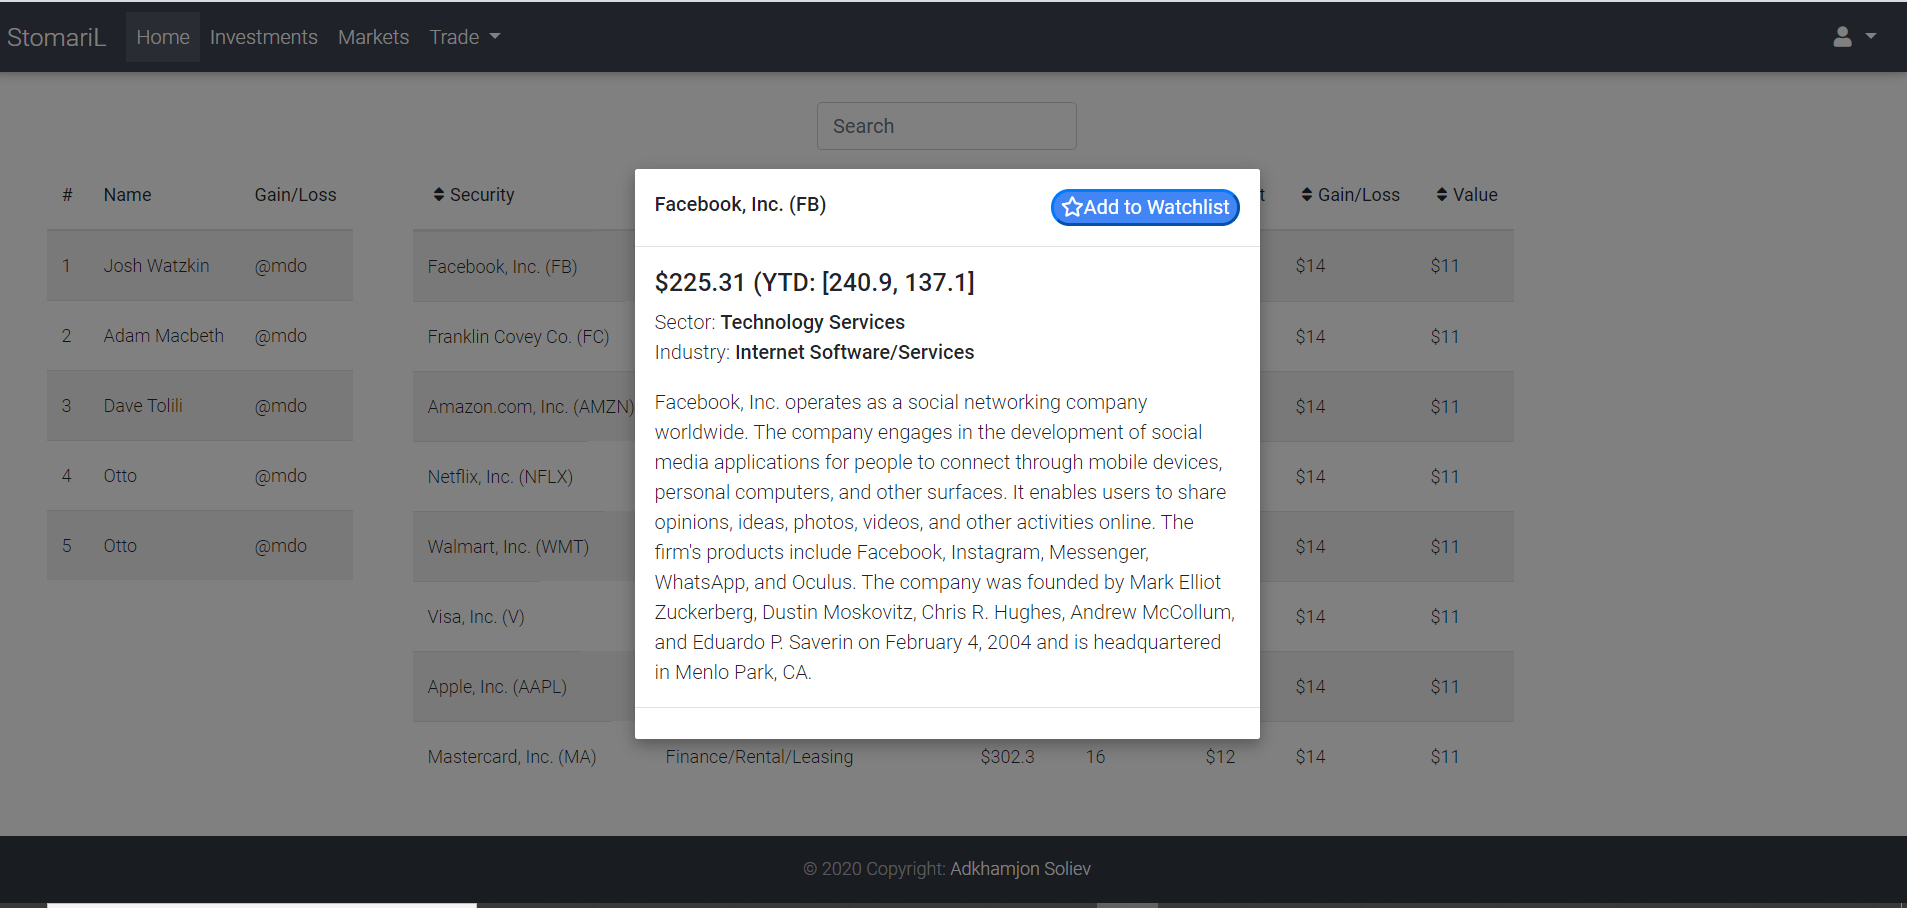
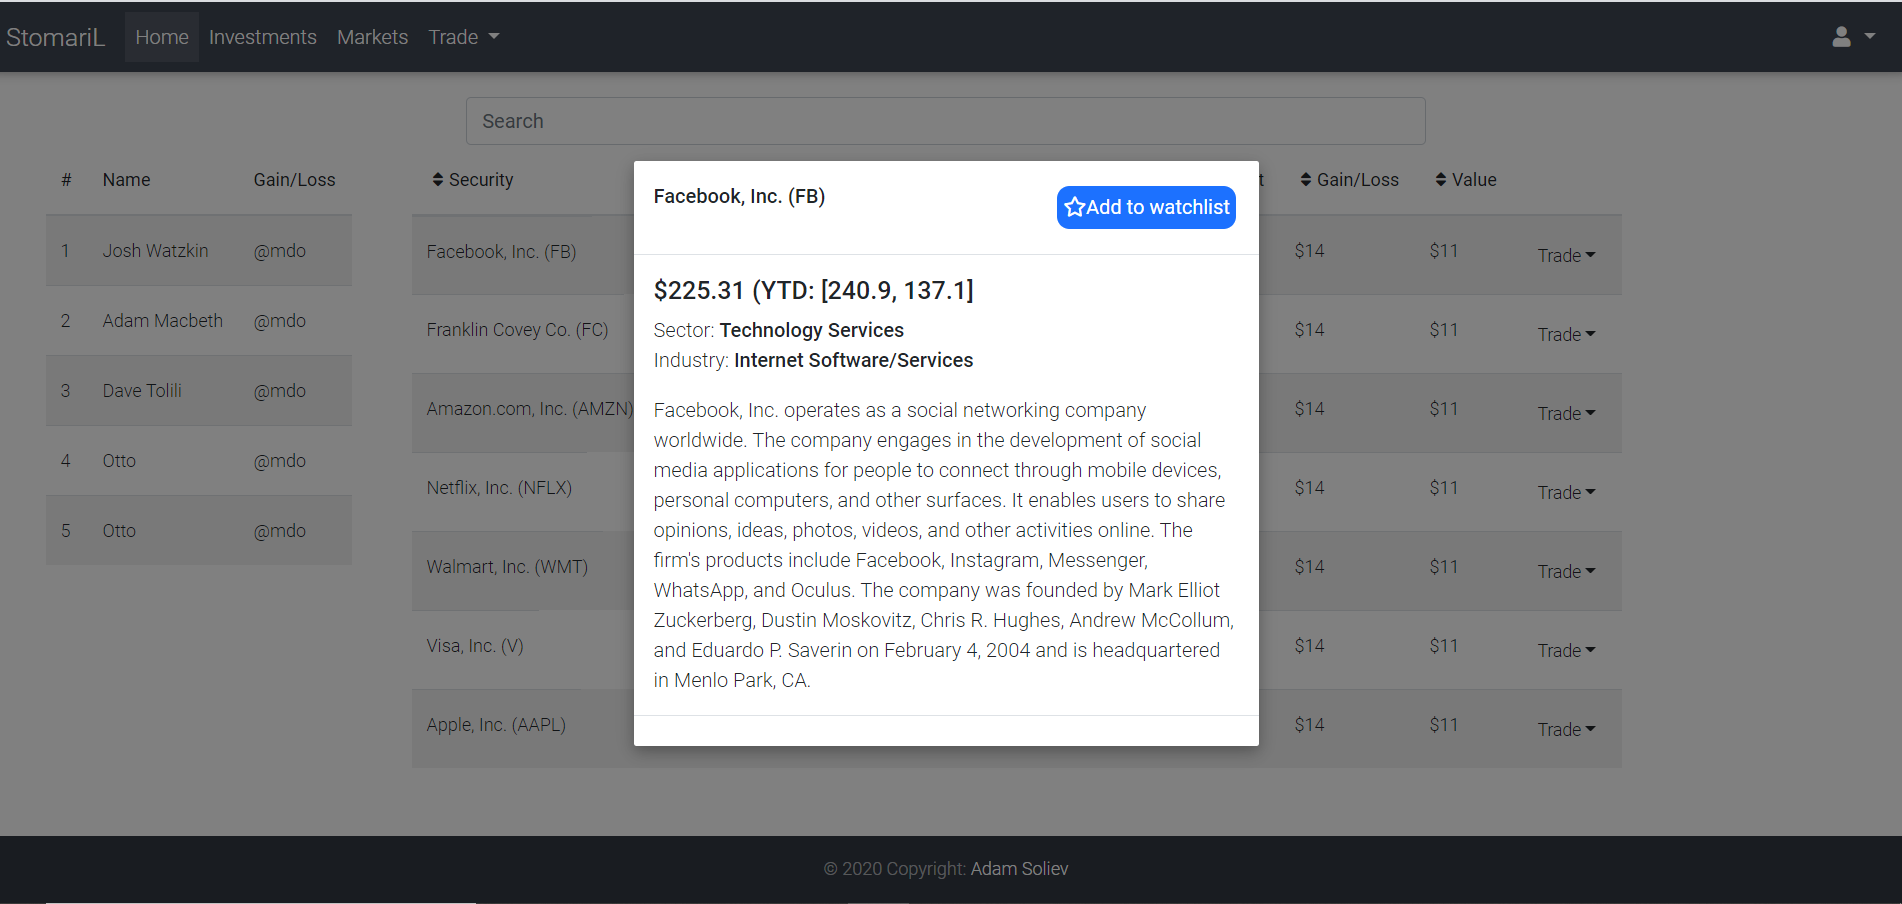
Updated search

diff --git a/README.MD b/README.MD
@@ -9,7 +9,8 @@
 - [x] Search
 - [x] Filtering JavaScript
 - [x] Modals
-- [ ] Create/Read/Update/Delete
+- [x] Create/Read
+- [ ] Update/Delete
 
 - Progress so far...
 - HOME PAGE
@@ -18,5 +19,5 @@
 - MODAL 
 ![alt text](screenshots/Modal.PNG)
 
-- FILTER
+- SEARCH
 ![alt text](screenshots/Filter.PNG)
